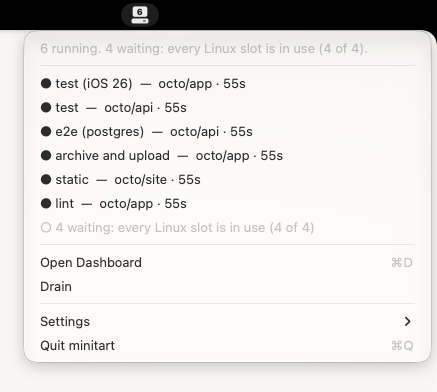
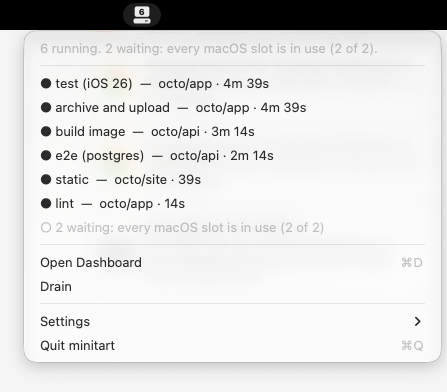
Open the menu bar app at login, and retake its pictures in light and dark (#30)
* Open the menu bar app at login unless the owner turns it off

A menu bar companion that is gone after a restart is not doing its job. The app registers as a
login item once, on its first launch from /Applications, so a development build never becomes
the login item and turning it off in Settings is never undone.

* Retake the menu bar pictures, light and dark

The jobs in them have run for different times now, and the dark picture shows to readers in
dark mode, as the dashboard's does.

* Say in the setup guide that the app opens at login

diff --git a/site/index.html b/site/index.html
@@ -77,12 +77,15 @@
           the jobs and opens the dashboard.
         </p>
         <figure class="shot menu">
-          <img
-            src="/menu-bar.png"
-            width="437"
-            height="392"
-            alt="minitart's menu bar app open: the mark with 6 on its screen, the headline, six jobs running and four waiting, Open Dashboard, Drain, Settings and Quit."
-          />
+          <picture>
+            <source srcset="/menu-bar-dark.png" media="(prefers-color-scheme: dark)" />
+            <img
+              src="/menu-bar.png"
+              width="447"
+              height="392"
+              alt="minitart's menu bar app open: the mark with 6 on its screen, the headline, the jobs running with how long each has run, what waits, Open Dashboard, Drain, Settings and Quit."
+            />
+          </picture>
         </figure>
       </section>
 

diff --git a/app/Sources/minitart-app/Model.swift b/app/Sources/minitart-app/Model.swift
@@ -187,3 +187,18 @@ enum Terminal {
     NSWorkspace.shared.open(file)
   }
 }
+
+/// The app opens at login unless the owner turns it off (D26): a menu bar companion that is
+/// gone after a restart is not doing its job. It registers once, on its first launch from
+/// /Applications, so a copy built for development never becomes the login item, and turning
+/// it off in Settings is never undone.
+enum LoginItem {
+  static let asked = "openAtLoginRegistered"
+
+  static func registerOnFirstLaunch() {
+    let defaults = UserDefaults.standard
+    guard !defaults.bool(forKey: asked), Bundle.main.bundlePath.hasPrefix("/Applications/") else { return }
+    defaults.set(true, forKey: asked)
+    try? SMAppService.mainApp.register()
+  }
+}

diff --git a/app/Sources/minitart-app/MinitartApp.swift b/app/Sources/minitart-app/MinitartApp.swift
@@ -15,6 +15,7 @@ struct MinitartApp: App {
       RenderMarks.run(into: arguments[flag + 1])
       exit(0)
     }
+    LoginItem.registerOnFirstLaunch()
   }
 
   var body: some Scene {

diff --git a/site/style.css b/site/style.css
@@ -154,7 +154,7 @@ h1 {
 }
 
 .shot.menu img {
-  width: min(100%, 437px);
+  width: min(100%, 447px);
 }
 
 .shot figcaption {

diff --git a/README.md b/README.md
@@ -85,9 +85,13 @@ brew install --cask zurfyx/tap/minitart-app
 Its mark says how things are: a prompt when idle, the number of jobs running, an exclamation
 mark when minitart needs you, and a pause sign while it drains. Its menu says what the
 dashboard's headline says, lists the jobs running, opens the dashboard, drains and resumes,
-and offers to start minitart, finish the setup or upgrade it when one is due.
+and offers to start minitart, finish the setup or upgrade it when one is due. It opens at
+login; its Settings menu turns that off.
 
-<img src="site/menu-bar.png" width="437" alt="minitart's menu bar app open: the mark with 6 on its screen, the headline, six jobs running and four waiting, Open Dashboard, Drain, Settings and Quit" />
+<picture>
+  <source srcset="site/menu-bar-dark.png" media="(prefers-color-scheme: dark)" />
+  <img src="site/menu-bar.png" width="447" alt="minitart's menu bar app open: the mark with 6 on its screen, the headline, the jobs running with how long each has run, what waits, Open Dashboard, Drain, Settings and Quit" />
+</picture>
 
 ### 2. Get the Mac ready
 

diff --git a/docs/setup.md b/docs/setup.md
@@ -254,8 +254,8 @@ It installs minitart too, if it is not yet. The menu bar shows minitart's mark, 
 with a screen: the number of jobs running on the screen, an exclamation mark when it needs
 you, and a pause sign when it is draining. Its menu has the dashboard's headline, the jobs
 running, Open Dashboard and Drain. When minitart is not running or not set up, it says so
-and offers to start it, or to finish the setup in Terminal. Turn on Settings → Open at Login
-to keep it there. `minitart upgrade` upgrades it with the rest
+and offers to start it, or to finish the setup in Terminal. It opens at login; Settings →
+Open at Login turns that off. `minitart upgrade` upgrades it with the rest
 ([D26](decisions/D26-a-menu-bar-app.md)).
 
 ## Later

diff --git a/docs/decisions/D26-a-menu-bar-app.md b/docs/decisions/D26-a-menu-bar-app.md
@@ -27,8 +27,9 @@ The app is a window onto the minitart on the same Mac, and nothing more:
   in Terminal (`minitart doctor --fix`, for the steps that need the Mac's password, which
   the app never asks for itself).
 - **It reads** `GET /api/state` every three seconds and acts through `POST /api/drain`. Its
-  settings are the count and opening at login; minitart's own settings stay in the
-  dashboard.
+  settings are the count and opening at login, both on to begin with: it registers as a login
+  item on its first launch from /Applications, and turning it off is never undone.
+  minitart's own settings stay in the dashboard.
 
 It watches this Mac only, `127.0.0.1:4141`. Watching another Mac is the tailnet dashboard's
 job (D20).
